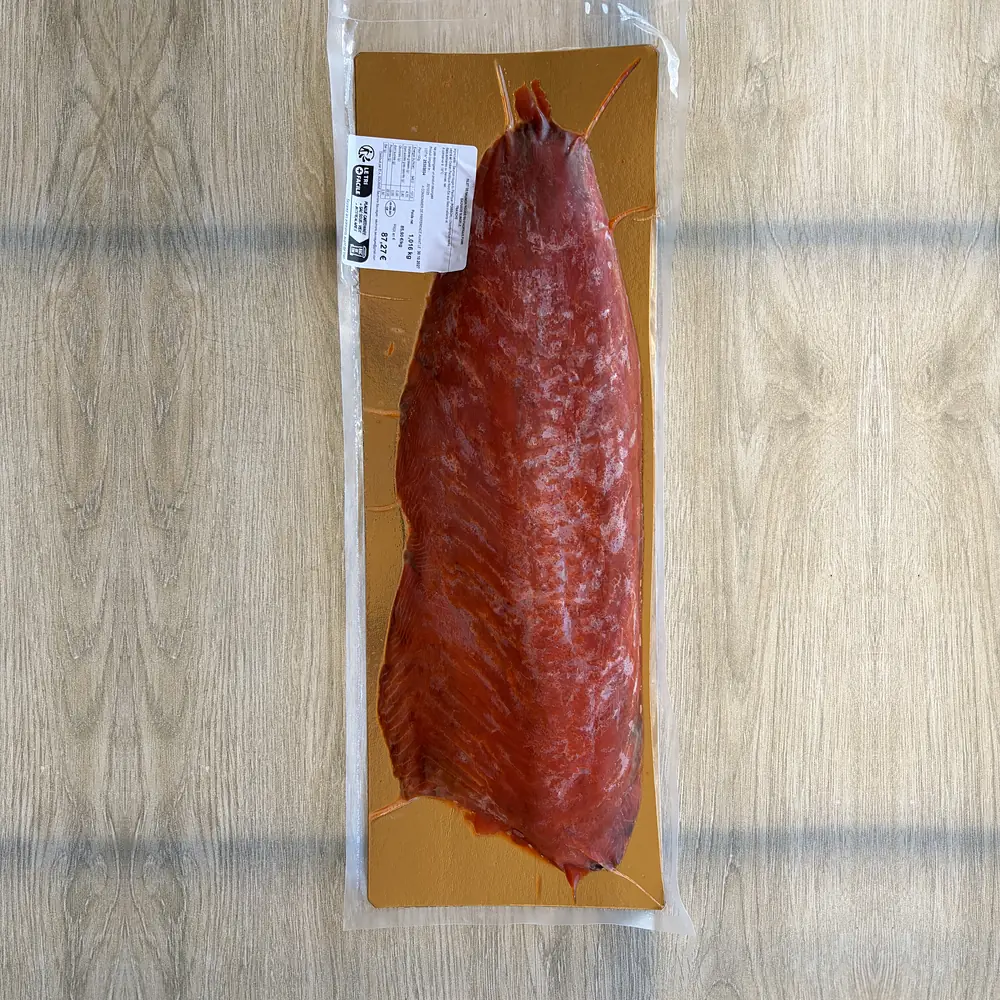
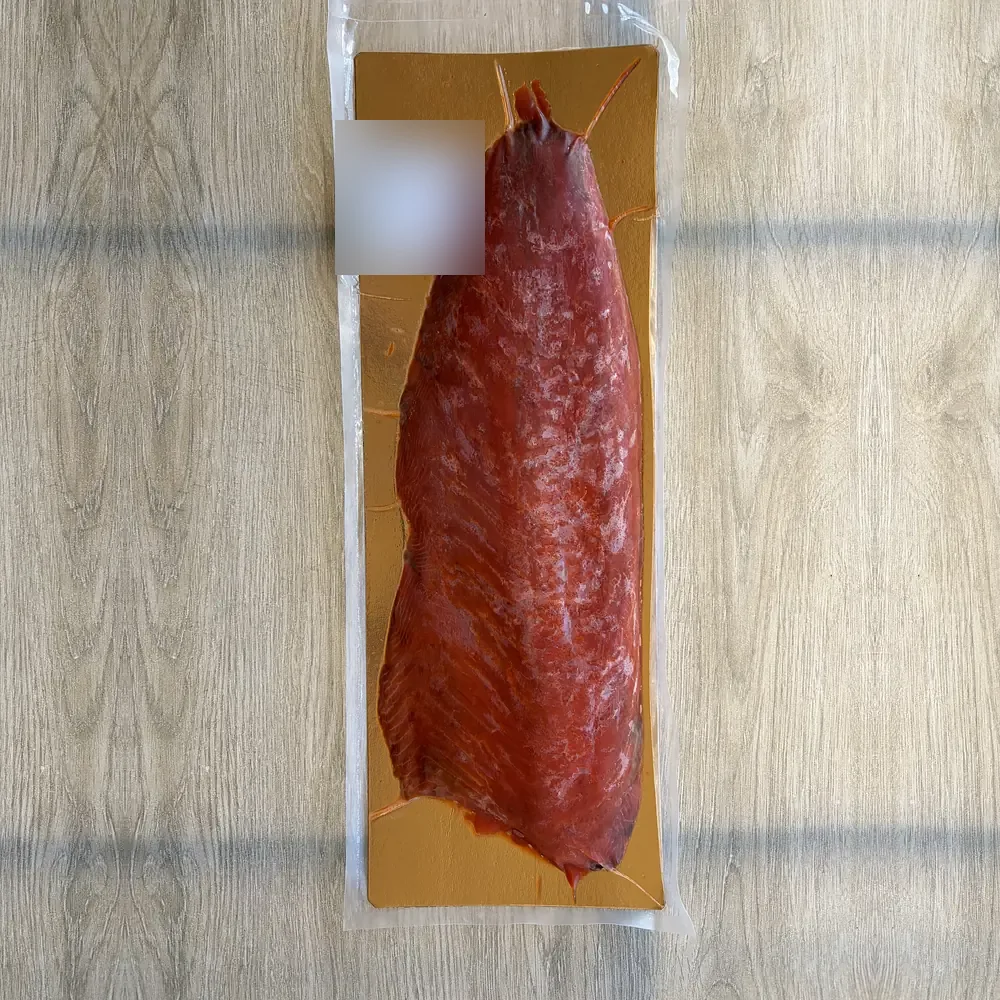
Demandes du 14/09 : étiquettes prix floutées sur les filets, adresse réduite à 40180 Siest, 5 nouveaux avis Facebook

Changed region(s): [[0.31, 0.093, 0.496, 0.279]]

diff --git a/src/mentions.md b/src/mentions.md
@@ -11,7 +11,7 @@ hero:
 ## Éditrice du site
 
 **Margarit Agayan-Sourine**, entreprise individuelle, exerçant sous l'enseigne « Les Saumons de Lionel ».<br>
-499 route d'Orist, 40180 Siest, France.<br>
+40180 Siest, France.<br>
 SIREN : 106 558 927.<br>
 TVA non applicable, article 293 B du CGI. Les prix affichés sont TTC.<br>
 Contact : <a href="mailto:bonjour@lessaumonsdelionel.fr" style="color:var(--cuivre)">bonjour@lessaumonsdelionel.fr</a> · 07 59 60 12 33.
